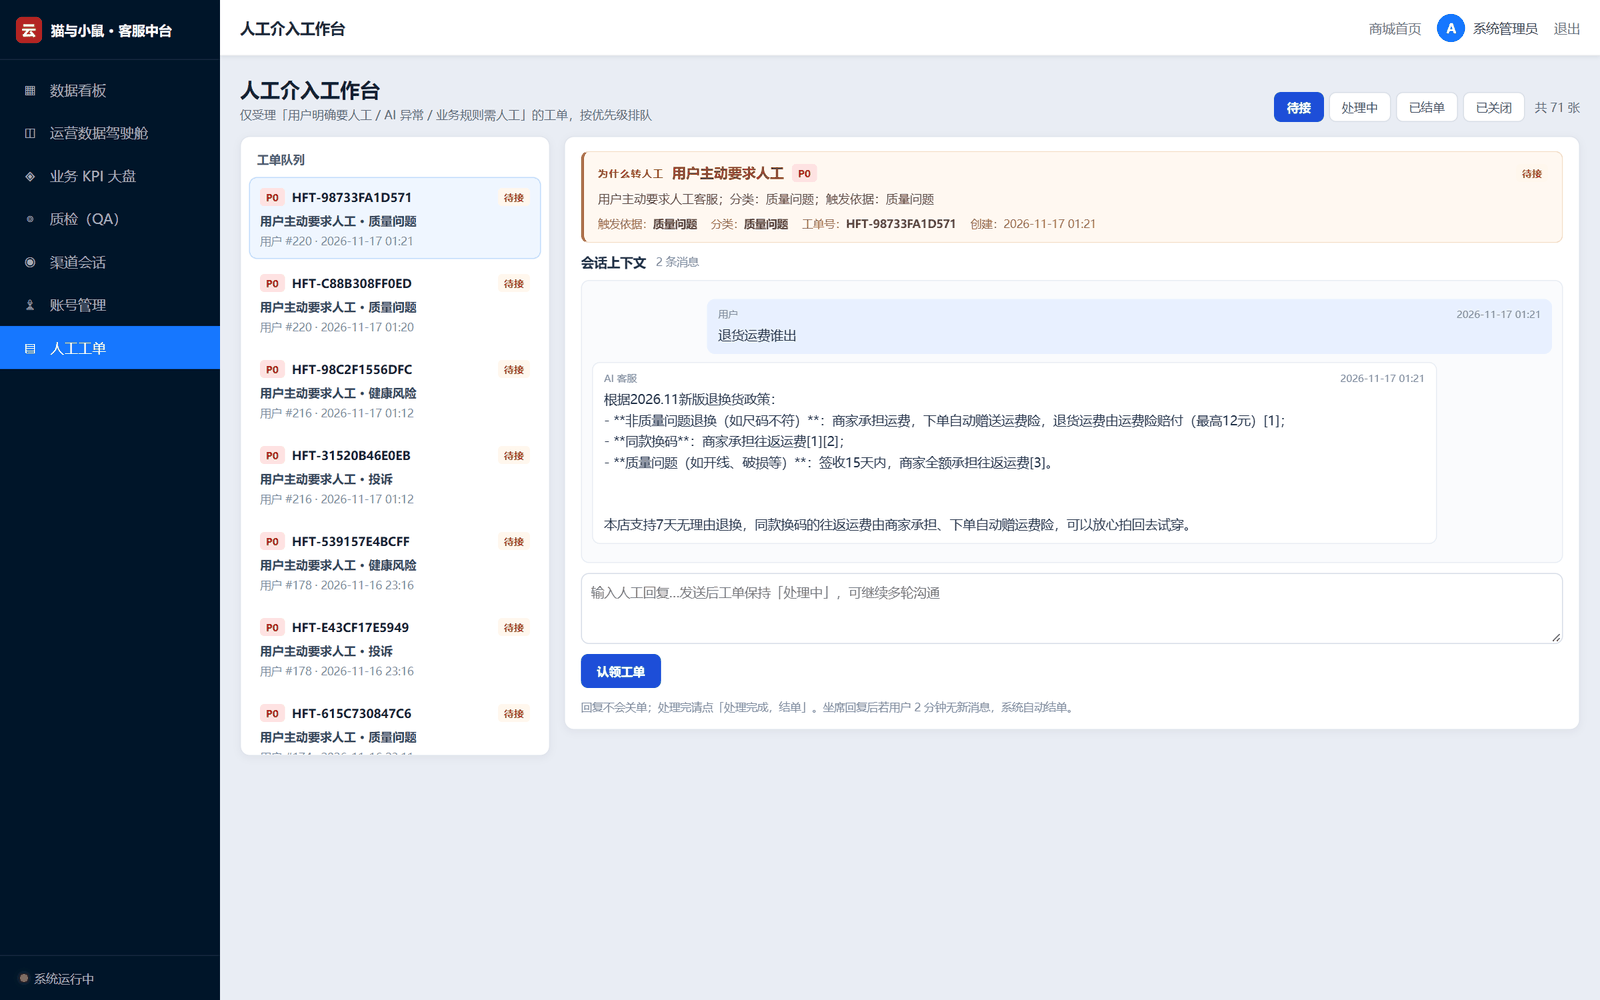
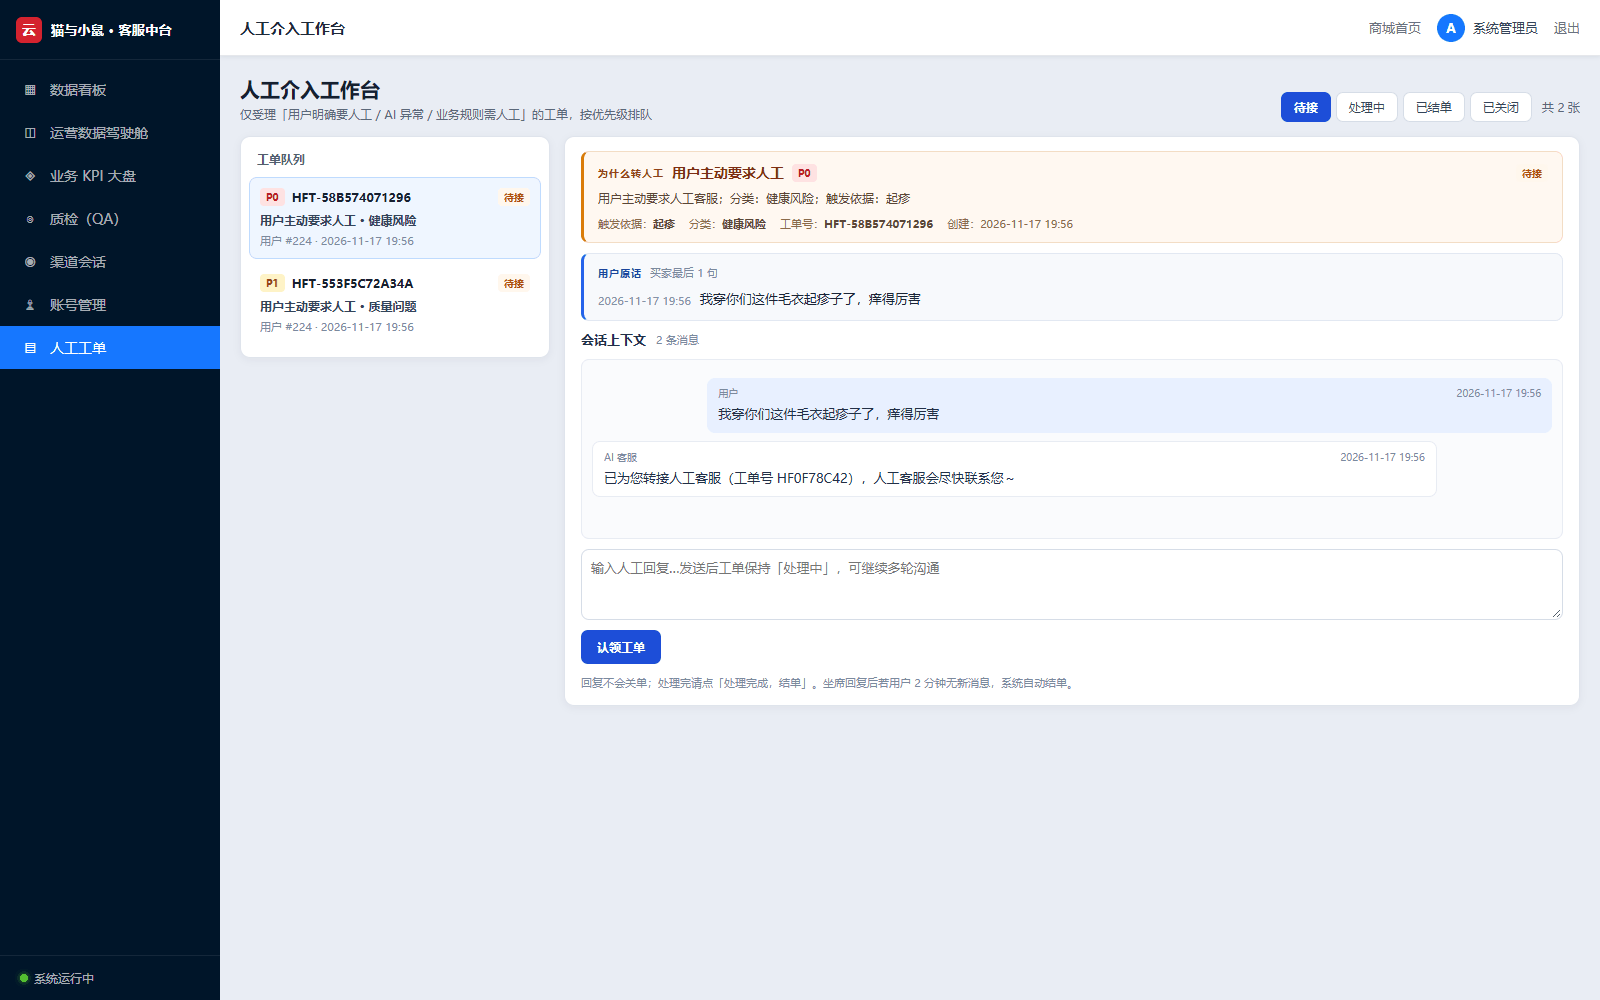
fix(ui): 工单详情展示用户原话，触发词不在用户消息中时显式告警

diff --git a/frontend/src/views/HandoffWorkbench.vue b/frontend/src/views/HandoffWorkbench.vue
@@ -9,7 +9,7 @@
  * - 转人工原因随工单落库：中文标签 + 触发依据 + 用户原话，显著展示
  * - 建单规则：用户明确要人工 / AI 异常 / 业务规则（含发货后改址），按优先级分级
  */
-import { onBeforeUnmount, onMounted, ref } from 'vue';
+import { computed, onBeforeUnmount, onMounted, ref } from 'vue';
 import {
   closeHandoffTicket,
   getHandoffTicket,
@@ -103,6 +103,27 @@ function close(): void {
 function priorityClass(p?: string | null): string {
   return p === 'P0' ? 'pri pri-p0' : p === 'P1' ? 'pri pri-p1' : 'pri';
 }
+
+/**
+ * 用户原话：会话里用户消息的最后 3 条。
+ * 坐席第一眼要看到「买家到底说了什么」，而不是只看分类标签——
+ * 曾有工单因为 AI 回复里出现「质量问题」四个字被误判成 P0，界面上却看不到用户原话，无从判断真假。
+ */
+const userQuotes = computed<{ id: number; content: string; create_time?: string | null }[]>(() => {
+  const msgs = current.value?.messages || [];
+  return msgs.filter((m) => m.role === 'user').slice(-3);
+});
+
+/** 触发词是否真的出现在用户说的话里；不在 → 大概率是 AI 回复内容误触发，界面需显式告警 */
+const kwMismatch = computed<boolean>(() => {
+  const kw = current.value?.matched_keyword;
+  if (!kw) return false;
+  const userText = (current.value?.messages || [])
+    .filter((m) => m.role === 'user')
+    .map((m) => m.content)
+    .join('\n');
+  return !userText.includes(kw);
+});
 function statusClass(s?: string): string {
   return `st st-${s || 'pending'}`;
 }
@@ -177,6 +198,24 @@ onBeforeUnmount(() => {
             <span>工单号：<b>{{ current.ticket_no }}</b></span>
             <span>创建：{{ timeText(current.create_time) }}</span>
           </div>
+        </div>
+
+        <!-- 用户原话：先看买家说了什么，再判断这个工单该不该存在 -->
+        <div class="quotes">
+          <div class="quotes-head">
+            <span class="quotes-kicker">用户原话</span>
+            <span class="hint">买家最后 {{ userQuotes.length }} 句</span>
+            <span v-if="kwMismatch" class="warn">
+              ⚠ 触发依据「{{ current.matched_keyword }}」未出现在用户消息中，疑似由 AI 回复内容误触发
+            </span>
+          </div>
+          <ul v-if="userQuotes.length" class="quote-list">
+            <li v-for="q in userQuotes" :key="q.id">
+              <time>{{ timeText(q.create_time) }}</time>
+              <span>{{ q.content }}</span>
+            </li>
+          </ul>
+          <p v-else class="empty">该工单未关联到用户消息，无法核对诉求原文</p>
         </div>
 
         <div class="d-head">
@@ -290,6 +329,22 @@ onBeforeUnmount(() => {
 .reason-detail { font-size: 12px; color: #5b4636; line-height: 1.65; margin: 7px 0; }
 .reason-meta { display: flex; flex-wrap: wrap; gap: 14px; font-size: 11px; color: #8a6a4a; }
 .reason-meta b { color: #5b4636; }
+
+/* 用户原话：与橙色「为什么转人工」区分开，蓝色系表示"原始证据" */
+.quotes {
+  background: #f7f9fc; border: 1px solid #e2e8f2; border-left: 3px solid #2563eb;
+  border-radius: 8px; padding: 10px 14px;
+}
+.quotes-head { display: flex; align-items: center; flex-wrap: wrap; gap: 8px; }
+.quotes-kicker { font-size: 10px; font-weight: 700; color: #1e40af; letter-spacing: 1px; }
+.quotes-head .warn {
+  font-size: 11px; color: #92400e; background: #fef3c7;
+  border: 1px solid #fcd34d; border-radius: 5px; padding: 2px 7px;
+}
+.quote-list { list-style: none; margin: 8px 0 0; padding: 0; display: flex; flex-direction: column; gap: 5px; }
+.quote-list li { display: flex; gap: 9px; font-size: 13px; color: #1b2536; line-height: 1.6; }
+.quote-list time { flex: none; font-size: 11px; color: #8593a6; padding-top: 3px; }
+.quote-list li span { font-weight: 500; }
 
 .d-head { display: flex; align-items: center; gap: 10px; font-size: 13px; color: #223047; }
 .hint { font-size: 11px; color: #7b8a9e; line-height: 1.6; }
